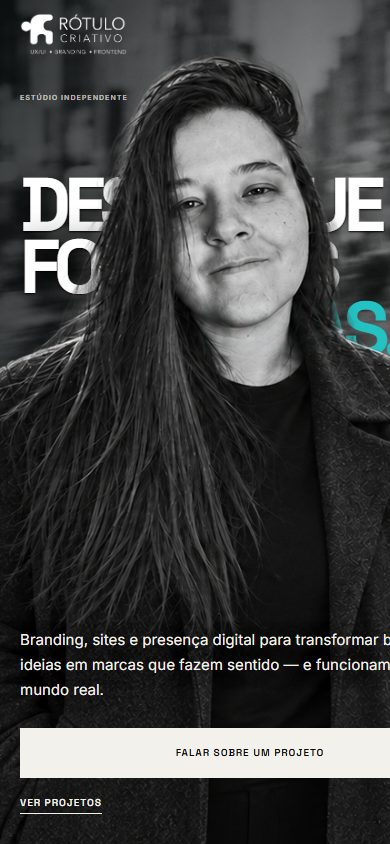
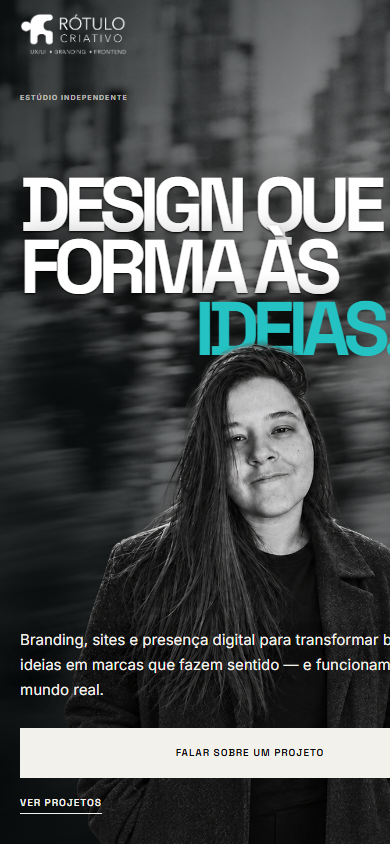
comf

diff --git a/index.html b/index.html
@@ -11,7 +11,7 @@
 <a class="skip-link" href="#conteudo">Saltar para o conteúdo</a>
 <header class="site-header" data-header><a class="brand" href="#inicio" aria-label="Rótulo Criativo — início"><img src="public/logo-horizontal.png" alt="Rótulo Criativo"></a><nav class="desktop-nav" aria-label="Navegação principal"><a href="#projetos">Projetos</a><a href="#servicos">Serviços</a><a href="#planos">Planos</a><a href="#sobre">Sobre</a><a href="#contato">Contato</a></nav><a class="header-cta" href="#contato">Falar comigo</a><button class="menu-toggle" type="button" aria-expanded="false" aria-controls="mobile-menu" aria-label="Abrir menu"><span></span><span></span></button><nav class="mobile-menu" id="mobile-menu" aria-label="Navegação mobile"><a href="#projetos">Projetos</a><a href="#servicos">Serviços</a><a href="#planos">Planos</a><a href="#sobre">Sobre</a><a href="#contato">Contato</a><a class="mobile-contact" href="https://wa.me/351932455443?text=Ol%C3%A1%20R%C3%B3tulo%20Criativo!%20Quero%20falar%20sobre%20um%20projeto." target="_blank" rel="noreferrer">Falar comigo</a></nav></header>
 <main id="conteudo">
-<section class="home" id="inicio" aria-labelledby="home-title"><div class="home-media" aria-hidden="true"><img src="public/home-cidade-fundo.png" alt=""></div><div class="home-meta home-meta-top" aria-hidden="true"><span>Estúdio independente</span><span>Portugal · Brasil</span></div><div class="home-stage"><h1 class="home-title" id="home-title"><span class="home-line" data-reactive>Design que dá</span><span class="home-line home-line-indent" data-reactive>forma às</span><span class="home-line home-accent" data-reactive>ideias.</span></h1><span class="home-shape" aria-hidden="true"></span><span class="home-line-detail" aria-hidden="true"></span></div><div class="home-person" aria-hidden="true"><img src="public/home-magali-recorte.png" alt=""></div><div class="home-bottom"><div class="home-index" aria-hidden="true"><span>Estratégia</span><span>Design</span><span>Implementação</span></div><div class="home-intro"><p>Branding, sites e presença digital para transformar boas ideias em marcas que fazem sentido — e funcionam no mundo real.</p><div class="actions"><a class="button button-dark" href="#contato">Falar sobre um projeto</a><a class="text-link" href="#projetos">Ver projetos</a></div></div><div class="home-index home-index-right" aria-hidden="true"><span>Ideias</span><span>Marcas</span><span>Resultados</span></div></div></section>
+<section class="home" id="inicio" aria-labelledby="home-title"><div class="home-media" aria-hidden="true"><img src="public/home-cidade-fundo.png" alt=""></div><div class="home-meta home-meta-top" aria-hidden="true"><span>Estúdio independente</span><span>Portugal · Brasil</span></div><div class="home-stage"><h1 class="home-title" id="home-title"><span class="home-line home-line-design" data-reactive>Design</span><span class="home-line home-line-que" data-reactive>que dá</span><span class="home-line home-line-forma" data-reactive>forma às</span><span class="home-line home-accent" data-reactive>ideias.</span></h1><span class="home-shape" aria-hidden="true"></span><span class="home-line-detail" aria-hidden="true"></span></div><div class="home-person" aria-hidden="true"><img src="public/home-magali-recorte.png" alt=""></div><div class="home-bottom"><div class="home-index" aria-hidden="true"><span>Estratégia</span><span>Design</span><span>Implementação</span></div><div class="home-intro"><p>Branding, sites e presença digital para transformar boas ideias em marcas que fazem sentido — e funcionam no mundo real.</p><div class="actions"><a class="button button-dark" href="#contato">Falar sobre um projeto</a><a class="text-link" href="#projetos">Ver projetos</a></div></div><div class="home-index home-index-right" aria-hidden="true"><span>Ideias</span><span>Marcas</span><span>Resultados</span></div></div></section>
 <section class="clientes" id="clientes" aria-labelledby="clientes-title"><div class="section-intro reveal"><p class="eyebrow">Clientes</p><h2 id="clientes-title">Marcas que já confiaram<br>no meu trabalho.</h2><p>De negócios locais a marcas maiores, cada projeto começa do mesmo lugar: entender o que precisa ser comunicado antes de decidir como vai parecer.</p></div><div class="marquee" tabindex="0" aria-label="Logótipos de clientes; a animação pausa ao focar ou passar o cursor."><div class="marquee-track"><div class="logo-group"><img src="public/clients/casa.png" alt="Casa da Árvore"><img src="public/clients/cia.jpg" alt="Cia da Montagem"><img src="public/clients/micanga.jpg" alt="Club da Miçanga"><img src="public/clients/danibraga.jpg" alt="Dani Braga Ink"><img src="public/clients/lobo.png" alt="Lobo Urbano"></div><div class="logo-group" aria-hidden="true"><img src="public/clients/casa.png" alt=""><img src="public/clients/cia.jpg" alt=""><img src="public/clients/micanga.jpg" alt=""><img src="public/clients/danibraga.jpg" alt=""><img src="public/clients/lobo.png" alt=""></div></div></div></section>
 <section class="destaques" id="projetos" aria-labelledby="destaques-title"><header class="section-header reveal"><p class="eyebrow">Áreas de destaque</p><h2 id="destaques-title">Pensar a marca.<br><span>Construir a presença.</span></h2></header><div class="feature-grid"><article class="feature feature-dark reveal"><div class="feature-media"><img src="public/showcase-desktop-optimized.jpg" alt="Website da Rótulo Criativo apresentado num computador" loading="lazy"></div><div class="feature-copy"><span class="feature-number">Sites</span><h3>Sua marca também precisa funcionar na tela.</h3><p>Crio sites institucionais, landing pages e experiências para e-commerce que combinam identidade, usabilidade e uma presença digital bem construída.</p><small>Web design · Landing pages · Shopify · E-commerce</small><a class="text-link light" href="#projetos-reais">Conhecer projetos web</a></div></article><article class="feature feature-light reveal"><div class="feature-media brand-composition"><img src="public/rotulo-criativo-simbolo.png" alt="Símbolo da Rótulo Criativo" loading="lazy"><span>Identidade<br>é linguagem.</span></div><div class="feature-copy"><span class="feature-number">Branding</span><h3>Antes de ser lembrada, uma marca precisa ser reconhecida.</h3><p>Desenvolvo identidades visuais com personalidade e consistência — do logotipo à linguagem que acompanha a marca em todos os pontos de contato.</p><small>Identidade visual · Logotipo · Direção visual</small><a class="text-link" href="#contato">Conhecer projetos de branding</a></div></article></div><div class="selected-work" id="projetos-reais"><div class="work-heading reveal"><p class="eyebrow">Projetos selecionados</p><h3>Trabalho real,<br>feito com intenção.</h3></div><div class="project-list"><a class="project-row reveal" href="https://magalibarradas.github.io/MagaliBarradasPorfolio/" target="_blank" rel="noreferrer"><span>Portfólio · UI/UX · Frontend</span><strong>Magali Barradas</strong><em>Website</em></a><a class="project-row reveal" href="https://magalibarradas.github.io/casadaarvore/" target="_blank" rel="noreferrer"><span>Alojamento · Web design</span><strong>Casa da Árvore</strong><em>Website</em></a><a class="project-row reveal" href="https://magalibarradas.github.io/cafe-torres/" target="_blank" rel="noreferrer"><span>Restauração · Web design</span><strong>Café Torres</strong><em>Website</em></a><a class="project-row reveal" href="https://magalibarradas.github.io/danibraga/DaniBragaink-main/" target="_blank" rel="noreferrer"><span>Tatuagem · Portfólio digital</span><strong>Dani Braga Ink</strong><em>Website</em></a></div></div></section>
 <section class="servicos" id="servicos" aria-labelledby="servicos-title"><header class="section-header reveal"><p class="eyebrow">Serviços</p><h2 id="servicos-title">O que posso fazer<br>pela sua marca.</h2><p>Não existe uma solução igual para todo negócio. O projeto começa entendendo onde sua marca está e o que ela realmente precisa.</p></header><div class="services-grid"><article class="service-card reveal"><span class="service-tag">Web design + desenvolvimento</span><h3>Crio seu site</h3><p>Sites institucionais, landing pages, mini sites e experiências para e-commerce. Do layout à implementação, pensando sempre em clareza, experiência e identidade.</p><a class="text-link" href="#contato">Quero um site</a><span class="service-shape shape-frame" aria-hidden="true"></span></article><article class="service-card reveal"><span class="service-tag">Branding</span><h3>Crio sua identidade visual</h3><p>Logotipo, paleta, tipografia e direção visual para construir uma marca reconhecível e coerente. Não é só uma logo. É criar uma linguagem para o negócio.</p><a class="text-link" href="#contato">Quero minha identidade</a><span class="service-shape shape-circle" aria-hidden="true"></span></article><article class="service-card reveal"><span class="service-tag">Conteúdo + direção visual</span><h3>Cuido da sua presença nas redes</h3><p>Planeamento, posts, stories e organização visual para manter sua marca ativa sem parecer que cada publicação veio de um lugar diferente.</p><a class="text-link" href="#contato">Quero cuidar das redes</a><span class="service-shape shape-bars" aria-hidden="true"></span></article></div></section>

diff --git a/sections/01-home/home.css b/sections/01-home/home.css
@@ -14,4 +14,14 @@
 .home-shape,.home-line-detail{z-index:3}
 .home-intro p{position:relative;text-shadow:0 2px 18px rgba(0,0,0,.75)}
 @media(max-width:980px){.home-accent{margin-left:48%}}
-@media(max-width:700px){.home-accent{margin-left:38%}.home-person img{object-position:54% center}.home-media:after{background:linear-gradient(90deg,rgba(5,9,10,.72),rgba(5,9,10,.25) 62%,rgba(5,9,10,.48)),linear-gradient(180deg,rgba(5,9,10,.42),transparent 33%,rgba(5,9,10,.8))}}
+@media(max-width:700px){.home-accent{margin-left:38%}.home-person{display:flex;align-items:flex-end;justify-content:center}.home-person img{width:auto;max-width:none;height:64%;object-fit:contain;object-position:center bottom}.home-media:after{background:linear-gradient(90deg,rgba(5,9,10,.72),rgba(5,9,10,.25) 62%,rgba(5,9,10,.48)),linear-gradient(180deg,rgba(5,9,10,.42),transparent 33%,rgba(5,9,10,.8))}}
+
+/* The headline frames the portrait instead of disappearing behind it. */
+.home-title{position:absolute;inset:0;font-size:clamp(68px,8.3vw,150px);line-height:.78;letter-spacing:-.075em}
+.home-title .home-line{position:absolute;margin:0}
+.home-line-design{top:18%;left:1%}
+.home-line-que{top:18%;right:1%}
+.home-line-forma{top:52%;left:4%}
+.home-title .home-accent{top:55%;right:1%;margin:0}
+@media(max-width:1200px){.home-title{font-size:clamp(66px,9vw,108px)}.home-line-design{left:0}.home-line-que{right:0}.home-line-forma{left:2%}.home-title .home-accent{right:0}}
+@media(max-width:700px){.home-stage{align-items:flex-start}.home-title{position:relative;inset:auto;display:grid;grid-template-columns:1fr auto;gap:3px 12px;width:100%;padding-top:66px;font-size:clamp(42px,13vw,56px);line-height:.84;letter-spacing:-.07em}.home-title .home-line{position:static;margin:0}.home-line-design{grid-column:1}.home-line-que{grid-column:2;text-align:right}.home-line-forma{grid-column:1/-1}.home-title .home-accent{grid-column:2;justify-self:end}}
